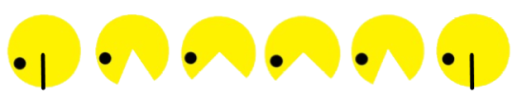
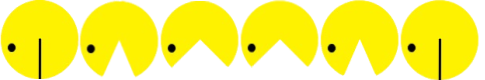
Fixed UI and Collision

diff --git a/game-source-code/Screen.cpp b/game-source-code/Screen.cpp
@@ -34,8 +34,8 @@ void Screen::drawPacMan(const PacMan& pacman, int frame, int dir) {
     const std::vector<Texture2D>& pacManImages = pacman.getPacmanImages();  // Get Pac-Man textures
 
     // Convert tile coordinates to pixel coordinates and apply some shift
-    double pixelX = pacman.getX() - 43;  // Adjust this based on desired position
-    double pixelY = pacman.getY() - 50;
+    double pixelX = pacman.getX() - 39;  // Adjust this based on desired position
+    double pixelY = pacman.getY() - 40;
 
     // Choose the appropriate texture based on the direction
     Texture2D texture = pacManImages[0];  // Default texture is manLeft

diff --git a/game-source-code/PacMan.cpp b/game-source-code/PacMan.cpp
@@ -6,7 +6,7 @@
 using namespace std;
 
 // Constructor
-PacMan::PacMan(int startX, int startY) : x(100), y(100), dx(0), dy(0), speed(250), radius(37) {
+PacMan::PacMan(int startX, int startY) : x(100), y(100), dx(0), dy(0), speed(250), radius(39) {
     initilisePacManImages();
 }
 
@@ -22,8 +22,8 @@ void PacMan::move(const Maze& maze, float deltaTime, int dir) {
     float newY = y + dy;
 
     if (!maze.isWall(newX, newY, radius)) {
-        x += dx*0.5;
-        y += dy*0.5;
+        x += dx*0.1;
+        y += dy*0.1;
     }
 }
 
